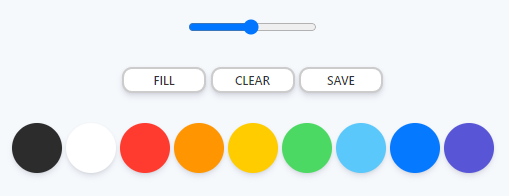
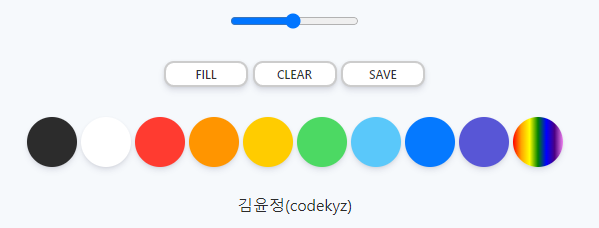
Update Custom color picker

diff --git a/app.js b/app.js
@@ -5,7 +5,6 @@ const colors = document.getElementsByClassName('jsColor');
 const mode = document.getElementById('jsMode');
 const saveBtn = document.getElementById('jsSave');
 const clearBtn = document.getElementById('jsClear');
-const pickerBtn = document.getElementsByClassName('jsCustomColor');
 const colorPicker = document.getElementById('jsCustomColor');
 
 const INITIAL_COLOR = '#2c2c2c'
@@ -87,9 +86,6 @@ const clearCanvas = () => {
     ctx.clearRect(0, 0, CANVAS_SIZE, CANVAS_SIZE);
 };
 
-const colorPickerClick = () => {
-    colorPicker.click();
-};
 
 const updateColorPicker = (event) => {
     const color = event.target.value;
@@ -124,10 +120,6 @@ if(saveBtn) {
 
 if(clearBtn) {
     clearBtn.addEventListener('click', clearCanvas);
-};
-
-if(pickerBtn) {
-    pickerBtn[0].addEventListener('click', colorPickerClick);
 };
 
 if(colorPicker) {

diff --git a/styles.css b/styles.css
@@ -65,11 +65,20 @@ body {
 .controls__colors .jsCustomColor {
     display: flex;
     align-items: center;
-    background-image: linear-gradient(to right, red,orange,yellow,green,blue,indigo,violet);
 }
 
-.jsCustomColor input {
-    display: none;
+.jsCustomColor input[type=color] {
+    background-image: linear-gradient(to right, red,orange,yellow,green,blue,indigo,violet);
+    border: none;
+    width: 50px;
+    height: 50px;
+    padding: 25px;
+    border-radius: 25px;
+    cursor: pointer;
+}
+
+.jsCustomColor input[type=color]::-webkit-color-swatch {
+    border: none;
 }
 
 .controls .controls__range {
